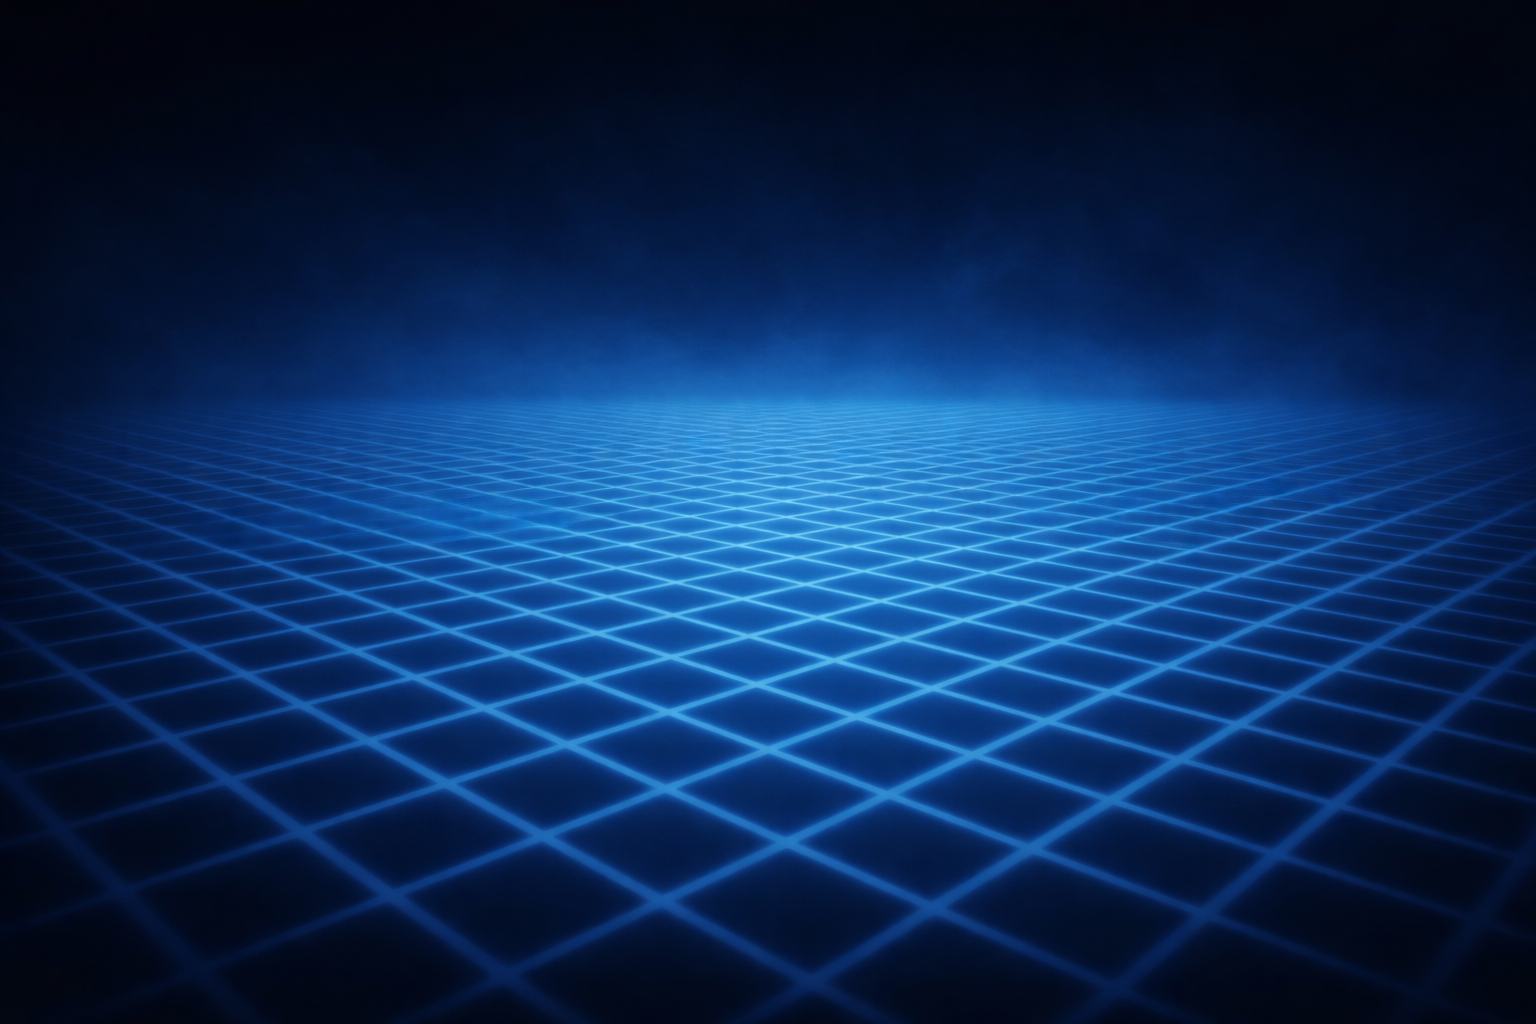
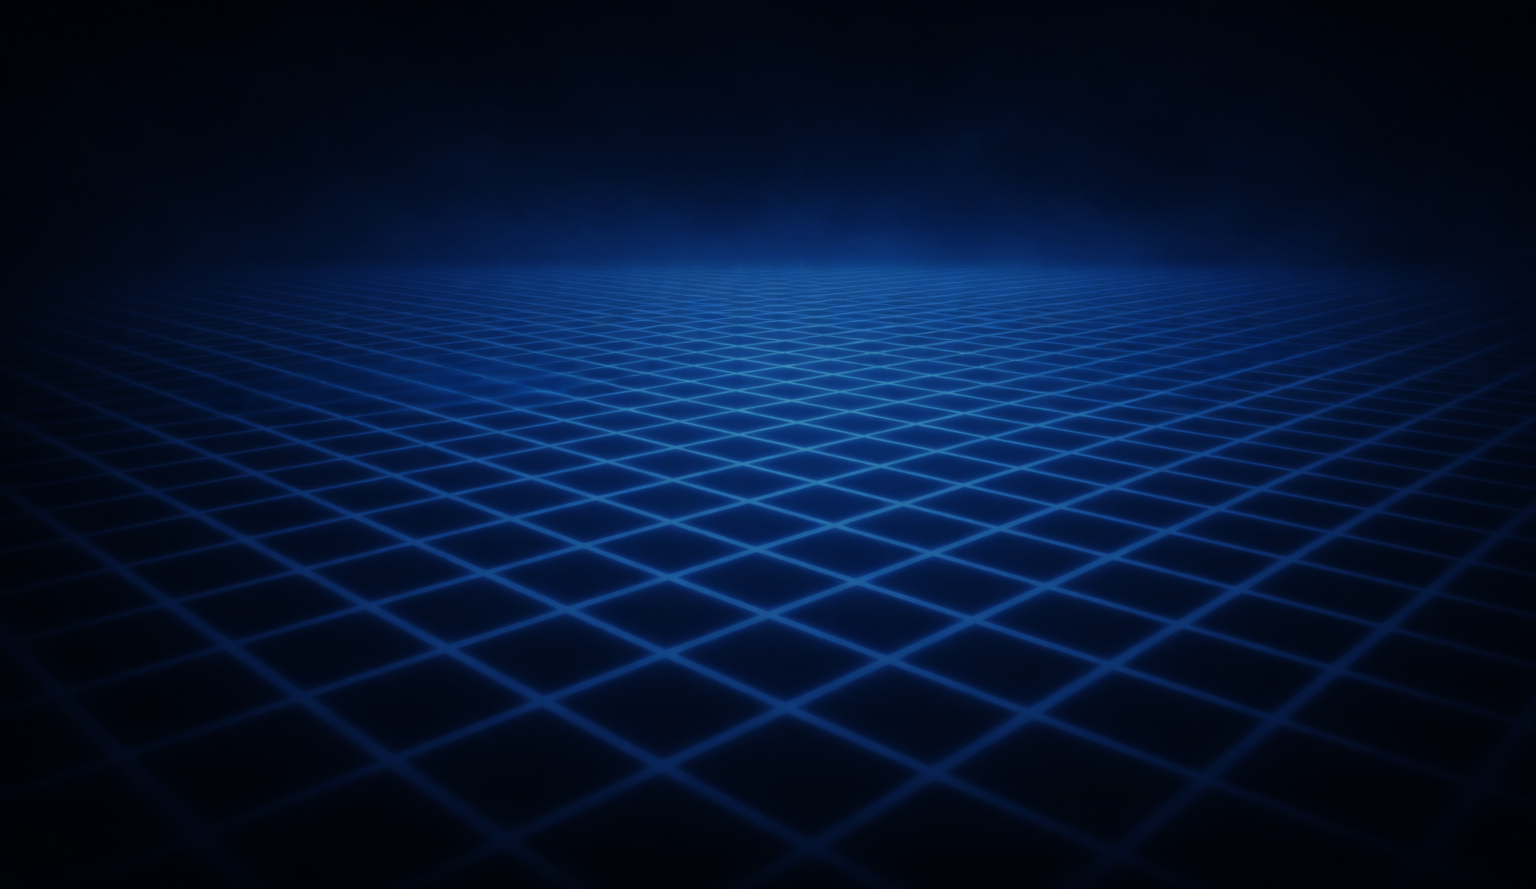
card2 está lista

diff --git a/index.html b/index.html
@@ -208,32 +208,7 @@
         </div>
 
         <div class="card" id="card2">
-          <div class="card-body">
-            <div class="left left-card2" id="center-services">
-              <p class="text-home justify" data-i18n="aboutContent">
-                We are an international web design and development agency that helps businesses,
-                institutions and individuals build modern, high-performing websites.
-                <br><br>
-                By combining clean visual design, intuitive user experience, and reliable, scalable
-                development, we turn your website into a powerful business tool.
-                <!--
-                <br><br>
-                Whether you are launching a new brand, improving your corporate image, or expanding to new markets,
-                Kopernikus Design delivers structured, professional, and results-driven web solutions that help your
-                business, institution or personal project grow with confidence.
-                -->
-              </p>
-            </div>
-            <div class="right" id="responsive-sketch">
-              <div class="image-container-home">
-                <img src="imagenes/01.png" alt="Job Lab Logo Design">
-              </div>
-            </div>
-          </div>
-        </div>
-
-        <div class="card" id="card3">
-          <div class="card-body">
+          <div class="card-body" id="card2-background">
             <div class="left left-card2" id="center-services">
               <p class="text-home justify" data-i18n="aboutContent">
                 We are an international web design and development agency that helps businesses,
@@ -257,29 +232,17 @@
           </div>
         </div>
 
+        <div class="card" id="card3">
+          <div class="card-body">
+            
+
+          </div>
+        </div>
+
         
         <div class="card" id="card4">
           <div class="card-body">
-            <div class="left left-card2" id="center-services">
-              <p class="text-home justify" data-i18n="aboutContent">
-                We are an international web design and development agency that helps businesses,
-                institutions and individuals build modern, high-performing websites.
-                <br><br>
-                By combining clean visual design, intuitive user experience, and reliable, scalable
-                development, we turn your website into a powerful business tool.
-                <!--
-                <br><br>
-                Whether you are launching a new brand, improving your corporate image, or expanding to new markets,
-                Kopernikus Design delivers structured, professional, and results-driven web solutions that help your
-                business, institution or personal project grow with confidence.
-                -->
-              </p>
-            </div>
-            <div class="right" id="responsive-sketch">
-              <div class="image-container-home">
-                <img src="imagenes/03.png" alt="Job Lab Logo Design">
-              </div>
-            </div>
+
           </div>
         </div>
 

diff --git a/scripts/languages_content.js b/scripts/languages_content.js
@@ -36,6 +36,8 @@ const languagesContent = {
     indexSubtitle: `FOR BUSINESSES THAT WANT RESULTS`,
     clickToStart: `Click me to start`,
     homeButton: `Start a Project`,
+    aboutContent: `We are an international web design and development agency that helps businesses, institutions and individuals build modern, high-performing websites.<br><br>By combining clean visual design, intuitive user experience, and reliable, scalable development, we turn your website into a powerful tool.`,
+
     wilmerIntroduction: "I am a web developer, graphic designer, and visual artist with international experience in Germany, China, and Colombia. In this portfolio, I present both professional and personal projects that reflect my approach: combining design, technology, and creativity to develop high-quality digital solutions.",
     projectTitle: `PROJECTS`,
     projectContent: `Discover a selection of project examples that show how I have supported clients through impactful web design and development.`,
@@ -140,6 +142,8 @@ const languagesContent = {
     indexSubtitle: `FÜR UNTERNEHMEN, DIE ERGEBNISSE WOLLEN`,
     clickToStart: `Klicken, um zu starten`,
     homeButton: `Projekt starten`,
+aboutContent: `Wir sind eine internationale Webdesign- und Entwicklungsagentur, die Unternehmen, Institutionen und Einzelpersonen dabei unterstützt, moderne, leistungsstarke Websites zu erstellen.<br><br>Durch die Kombination von klarem visuellem Design, intuitiver Benutzererfahrung und zuverlässiger, skalierbarer Entwicklung verwandeln wir Ihre Website in ein leistungsstarkes Instrument.`,
+
     wilmerIntroduction: "Ich bin Webentwickler, Grafikdesigner und bildender Künstler mit internationaler Erfahrung in Deutschland, China und Kolumbien. In diesem Portfolio präsentiere ich sowohl berufliche als auch persönliche Projekte, die meinen Ansatz widerspiegeln: Design, Technologie und Kreativität zu verbinden, um digitale Lösungen auf höchstem Niveau zu entwickeln.",
     projectTitle: "PROJEKTE",
     projectContent: "Erfahren Sie in verschiedenen Projektbeispielen, wie ich Kunden mit wirkungsvollem Webdesign und -entwicklung unterstützt habe.",
@@ -244,6 +248,7 @@ const languagesContent = {
     indexSubtitle: 'PARA EMPRESAS QUE QUIEREN RESULTADOS',
     clickToStart: `Toca para comenzar`,
     homeButton: `Iniciar un proyecto`,
+    aboutContent: 'Somos una agencia internacional de diseño y desarrollo web que ayuda a empresas, instituciones e individuos a construir sitios web modernos y de alto rendimiento.<br><br>Al combinar un diseño visual limpio, una experiencia de usuario intuitiva y un desarrollo confiable y escalable, convertimos su sitio web en una poderosa herramienta.',
     projectTitle: 'PROYECTOS',
     projectContent: 'Descubre una selección de ejemplos de proyectos que muestran cómo he apoyado a los clientes a través de un diseño y desarrollo web impactantes.',
     projectButton: 'Ver mis proyectos',

diff --git a/styles/images.css b/styles/images.css
@@ -91,15 +91,16 @@ display: none;
 }
 
 .image-container-home {
-  width: 100%;
+  width: 90%;
   /* Match the card height (cardHeight is defined in :root of cards.css) */
-  height: var(--cardHeight);
+  height: 90%;
   max-height: var(--cardHeight);
   box-sizing: border-box;
   display: flex;
   justify-content: center;
   align-items: center;
   overflow: hidden;
+
 }
 
 .image-container-home img {
@@ -107,6 +108,7 @@ display: none;
   width: auto;
   display: block;
   object-fit: contain;
+    border-radius: 50%;
 }
 
 #gif-container img {

diff --git a/styles/cards.css b/styles/cards.css
@@ -216,6 +216,9 @@
   color: #ffffff; 
   border-top: 1px solid white; 
   box-sizing: border-box;
+  background-color: #000000;
+}
+#card2-background {
   background-image: url('../imagenes/background.png');
 }
 
